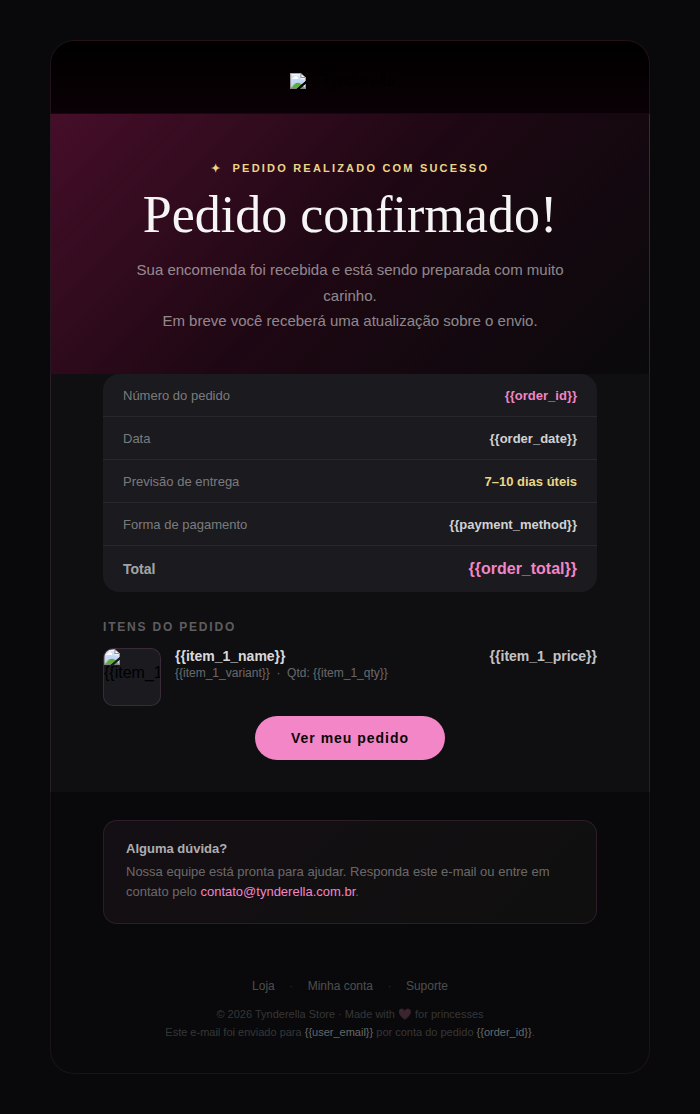
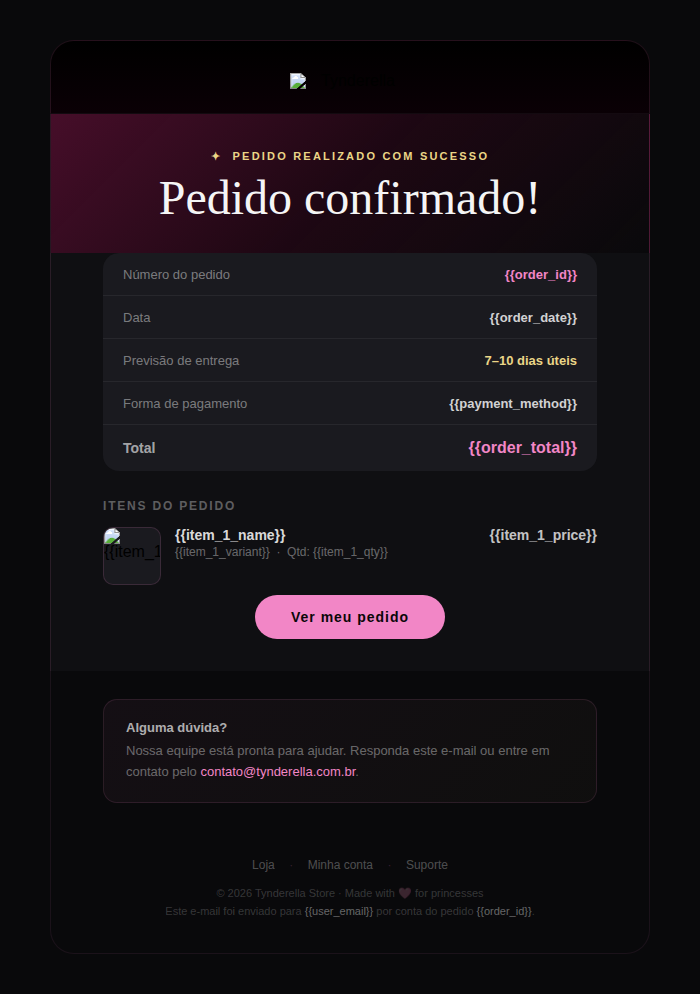
fix(emails): remove subtitle and tighten hero section in purchase email
https://claude.ai/code/session_01DFxWEVv5mqpkpwWp9nQucH

diff --git a/src/emails/compra-confirmada.html b/src/emails/compra-confirmada.html
@@ -45,31 +45,21 @@
 
         <!-- Hero banner (pink gradient) -->
         <tr>
-          <td style="background:linear-gradient(135deg,rgba(120,18,66,0.55) 0%,rgba(60,5,30,0.4) 50%,rgba(15,5,10,0) 100%);border-left:1px solid rgba(242,134,198,0.12);border-right:1px solid rgba(242,134,198,0.12);padding:44px 52px 40px;" class="mobile-padding">
+          <td style="background:linear-gradient(135deg,rgba(120,18,66,0.55) 0%,rgba(60,5,30,0.4) 50%,rgba(15,5,10,0) 100%);border-left:1px solid rgba(242,134,198,0.12);border-right:1px solid rgba(242,134,198,0.12);padding:32px 52px 28px;" class="mobile-padding">
 
             <table role="presentation" cellspacing="0" cellpadding="0" border="0" width="100%">
 
               <!-- Tag -->
               <tr>
-                <td align="center" style="padding-bottom:10px;">
+                <td align="center" style="padding-bottom:8px;">
                   <span style="display:inline-block;font-size:11px;letter-spacing:0.2em;text-transform:uppercase;color:#EBD687;font-weight:600;font-family:'Outfit',Arial,sans-serif;">✦ &nbsp;Pedido realizado com sucesso</span>
                 </td>
               </tr>
 
               <!-- Heading -->
               <tr>
-                <td align="center" style="padding-bottom:14px;">
-                  <h1 style="margin:0;font-family:'Great Vibes',Georgia,serif;font-size:52px;font-weight:400;color:#f5f5f5;line-height:1.1;">Pedido confirmado!</h1>
-                </td>
-              </tr>
-
-              <!-- Subheading -->
-              <tr>
-                <td align="center" style="padding-bottom:0;">
-                  <p style="margin:0;font-family:'Outfit',Arial,sans-serif;font-size:15px;line-height:1.7;color:rgba(245,245,245,0.55);max-width:440px;">
-                    Sua encomenda foi recebida e está sendo preparada com muito carinho.<br>
-                    Em breve você receberá uma atualização sobre o envio.
-                  </p>
+                <td align="center">
+                  <h1 style="margin:0;font-family:'Great Vibes',Georgia,serif;font-size:48px;font-weight:400;color:#f5f5f5;line-height:1.1;">Pedido confirmado!</h1>
                 </td>
               </tr>
 
